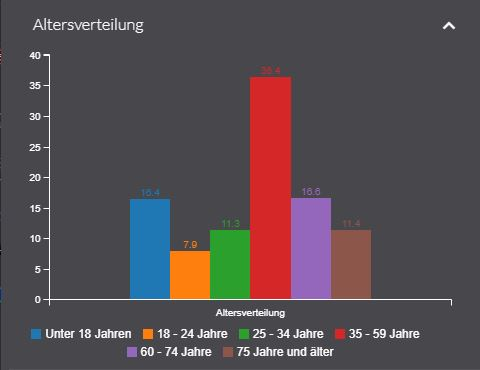
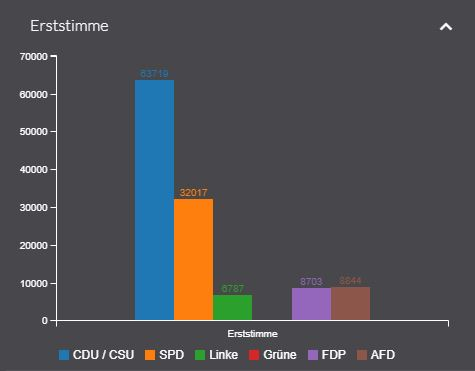
Update sample app

diff --git a/README.md b/README.md
@@ -167,38 +167,39 @@ More information about how to place the charting widget:
 https://developernetwork.conterra.de/en/documentation/mapapps/39/developers-documentation/templates
 
 ### Chart configuration samples
+
 #### Bar chart - single series
 ![Screenshot bar chart single series](https://github.com/conterra/mapapps-charting/blob/master/screenshots/bar_single.JPG)
 
 ```
 {
-    "title": "Altersverteilung",
+    "title": "Erststimme",
     "type": "bar",
     "height": 400,
     "data": [
         {
-            "attribute": "Alter_unter_18",
-            "title": "Unter 18 Jahren"
+            "attribute": "btw17_WKR_cducsu_erst",
+            "title": "CDU / CSU"
         },
         {
-            "attribute": "Alter_18_24",
-            "title": "18 - 24 Jahre"
+            "attribute": "btw17_WKR_spd_erst",
+            "title": "SPD"
         },
         {
-            "attribute": "Alter_25_34",
-            "title": "25 - 34 Jahre"
+            "attribute": "btw17_WKR_linke_erst",
+            "title": "Linke"
         },
         {
-            "attribute": "Alter_35_59",
-            "title": "35 - 59 Jahre"
+            "attribute": "btw17_WKR_gruene_erst",
+            "title": "Grüne"
         },
         {
-            "attribute": "Alter_60_74",
-            "title": "60 - 74 Jahre"
+            "attribute": "btw17_WKR_fdp_erst",
+            "title": "FDP"
         },
         {
-            "attribute": "Alter_75_und_mehr",
-            "title": "75 Jahre und älter"
+           "attribute": "btw17_WKR_afd_erst",
+            "title": "AFD"
         }
     ],
     "dataOrientation": "rows",
@@ -208,13 +209,310 @@ https://developernetwork.conterra.de/en/documentation/mapapps/39/developers-docu
 }
 ```
 
-Development Guide
-------------------
+#### Bar chart - multiple series
+![Screenshot bar chart multiple series](https://github.com/conterra/mapapps-charting/blob/master/screenshots/bar_multiple.JPG)
+
+```
+{
+    "title": "Entwicklung Erststimme",
+    "type": "bar",
+    "height": 400,
+    "headers": [
+        "2013",
+        "2017"
+    ],
+    "dataSeries": [
+        {
+            "title": "CDU / CSU",
+            "attributes": [
+                "btw17_WKR_cducsu_erst13",
+                "btw17_WKR_cducsu_erst"
+            ]
+        },
+        {
+            "title": "SPD",
+            "attributes": [
+                "btw17_WKR_spd_erst13",
+                "btw17_WKR_spd_erst"
+            ]
+        },
+        {
+            "title": "Linke",
+            "attributes": [
+                "btw17_WKR_linke_erst13",
+                "btw17_WKR_linke_erst"
+            ]
+        },
+        {
+            "title": "Grüne",
+            "attributes": [
+                "btw17_WKR_gruene_erst13",
+                "btw17_WKR_gruene_erst"
+            ]
+        },
+        {
+            "title": "FDP",
+            "attributes": [
+                "btw17_WKR_fdp_erst13",
+                "btw17_WKR_fdp_erst"
+            ]
+        },
+        {
+            "title": "AFD",
+            "attributes": [
+                "btw17_WKR_afd_erst13",
+                "btw17_WKR_afd_erst"
+            ]
+        }
+    ],
+    "dataOrientation": "columns",
+    "showDataLabels": true,
+    "rotatedAxis": false,
+    "expanded": true
+}
+```
+
+#### Stacked bar chart
+![Screenshot stacked bar chart multiple series](https://github.com/conterra/mapapps-charting/blob/master/screenshots/bar_multiple_stacked.JPG)
+
+```
+{
+    "title": "Entwicklung Erststimme",
+    "type": "bar",
+    "height": 400,
+    "headers": [
+        "2013",
+        "2017"
+    ],
+    "dataSeries": [
+        {
+            "title": "CDU / CSU",
+            "attributes": [
+                "btw17_WKR_cducsu_erst13",
+                "btw17_WKR_cducsu_erst"
+            ]
+        },
+        {
+            "title": "SPD",
+            "attributes": [
+                "btw17_WKR_spd_erst13",
+                "btw17_WKR_spd_erst"
+            ]
+        },
+        {
+            "title": "Linke",
+            "attributes": [
+                "btw17_WKR_linke_erst13",
+                "btw17_WKR_linke_erst"
+            ]
+        },
+        {
+            "title": "Grüne",
+            "attributes": [
+                "btw17_WKR_gruene_erst13",
+                "btw17_WKR_gruene_erst"
+            ]
+        },
+        {
+            "title": "FDP",
+            "attributes": [
+                "btw17_WKR_fdp_erst13",
+                "btw17_WKR_fdp_erst"
+            ]
+        },
+        {
+            "title": "AFD",
+            "attributes": [
+                "btw17_WKR_afd_erst13",
+                "btw17_WKR_afd_erst"
+            ]
+        }
+    ],
+    "groups": [
+        [
+            "CDU / CSU",
+            "SPD"
+        ]
+    ],
+    "dataOrientation": "columns",
+    "showDataLabels": true,
+    "rotatedAxis": false,
+    "expanded": true
+}
+```
+
+#### Line chart
+![Screenshot line chart multiple series](https://github.com/conterra/mapapps-charting/blob/master/screenshots/line_multiple.JPG)
+
+```
+{
+    "title": "Entwicklung Erststimme",
+    "type": "bar",
+    "height": 400,
+    "headers": [
+        "2013",
+        "2017"
+    ],
+    "dataSeries": [
+        {
+            "title": "CDU / CSU",
+            "attributes": [
+                "btw17_WKR_cducsu_erst13",
+                "btw17_WKR_cducsu_erst"
+            ]
+        },
+        {
+            "title": "SPD",
+            "attributes": [
+                "btw17_WKR_spd_erst13",
+                "btw17_WKR_spd_erst"
+            ]
+        },
+        {
+            "title": "Linke",
+            "attributes": [
+                "btw17_WKR_linke_erst13",
+                "btw17_WKR_linke_erst"
+            ]
+        },
+        {
+            "title": "Grüne",
+            "attributes": [
+                "btw17_WKR_gruene_erst13",
+                "btw17_WKR_gruene_erst"
+            ]
+        },
+        {
+            "title": "FDP",
+            "attributes": [
+                "btw17_WKR_fdp_erst13",
+                "btw17_WKR_fdp_erst"
+            ]
+        },
+        {
+            "title": "AFD",
+            "attributes": [
+                "btw17_WKR_afd_erst13",
+                "btw17_WKR_afd_erst"
+            ]
+        }
+    ],
+    "dataOrientation": "columns",
+    "showDataLabels": true,
+    "rotatedAxis": false,
+    "expanded": true
+}
+```
+
+#### Pie chart
+![Screenshot pie chart single series](https://github.com/conterra/mapapps-charting/blob/master/screenshots/pie_single.JPG)
+
+```
+{
+    "title": "Erststimme",
+    "type": "pie",
+    "height": 400,
+    "data": [
+        {
+            "attribute": "btw17_WKR_cducsu_erst",
+            "title": "CDU / CSU"
+        },
+        {
+            "attribute": "btw17_WKR_spd_erst",
+            "title": "SPD"
+        },
+        {
+            "attribute": "btw17_WKR_linke_erst",
+            "title": "Linke"
+        },
+        {
+            "attribute": "btw17_WKR_gruene_erst",
+            "title": "Grüne"
+        },
+        {
+            "attribute": "btw17_WKR_fdp_erst",
+            "title": "FDP"
+        },
+        {
+           "attribute": "btw17_WKR_afd_erst",
+            "title": "AFD"
+        }
+    ],
+    "dataOrientation": "rows",
+    "showDataLabels": true,
+    "rotatedAxis": false,
+    "expanded": true
+}
+```
+
+#### Donut chart
+![Screenshot donut chart single series](https://github.com/conterra/mapapps-charting/blob/master/screenshots/donut_single.JPG)
+
+```
+{
+    "title": "Erststimme",
+    "type": "donut",
+    "height": 400,
+    "data": [
+        {
+            "attribute": "btw17_WKR_cducsu_erst",
+            "title": "CDU / CSU"
+        },
+        {
+            "attribute": "btw17_WKR_spd_erst",
+            "title": "SPD"
+        },
+        {
+            "attribute": "btw17_WKR_linke_erst",
+            "title": "Linke"
+        },
+        {
+            "attribute": "btw17_WKR_gruene_erst",
+            "title": "Grüne"
+        },
+        {
+            "attribute": "btw17_WKR_fdp_erst",
+            "title": "FDP"
+        },
+        {
+           "attribute": "btw17_WKR_afd_erst",
+            "title": "AFD"
+        }
+    ],
+    "dataOrientation": "rows",
+    "showDataLabels": true,
+    "rotatedAxis": false,
+    "expanded": true
+}
+```
+
+#### Gauge chart
+![Screenshot gauge chart single series](https://github.com/conterra/mapapps-charting/blob/master/screenshots/gauge_single.JPG)
+
+```
+{
+    "title": "Arbeitslosenquote",
+    "type": "gauge",
+    "height": 400,
+    "data": [
+        {
+            "attribute": "Arbeitslosenquote_insges",
+            "title": "Arbeitslosenquote Insgesamt"
+        }
+    ],
+    "dataOrientation": "rows",
+    "showDataLabels": true,
+    "rotatedAxis": false,
+    "expanded": true
+}
+```
+
+## Development Guide
 ### Define the mapapps remote base
 Before you can run the project you have to define the mapapps.remote.base property in the pom.xml-file:
 `<mapapps.remote.base>http://%YOURSERVER%/ct-mapapps-webapp-%VERSION%</mapapps.remote.base>`
 
-##### Other methods to to define the mapapps.remote.base property.
+### Other methods to to define the mapapps.remote.base property.
 1. Goal parameters
 `mvn install -Dmapapps.remote.base=http://%YOURSERVER%/ct-mapapps-webapp-%VERSION%`
 
